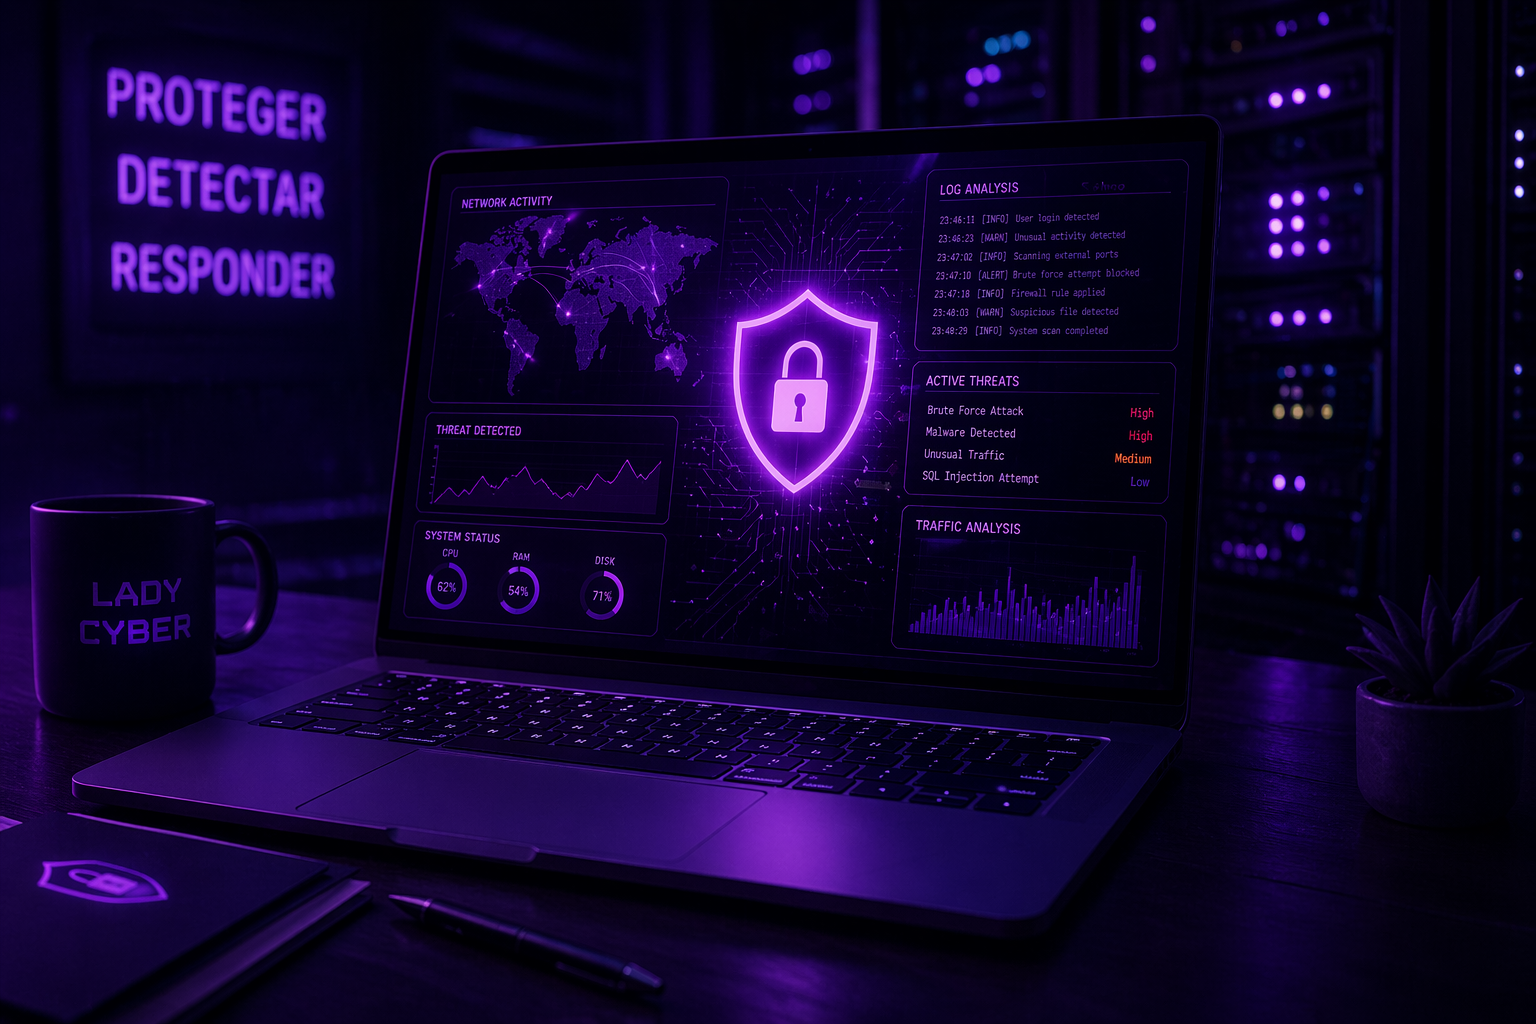
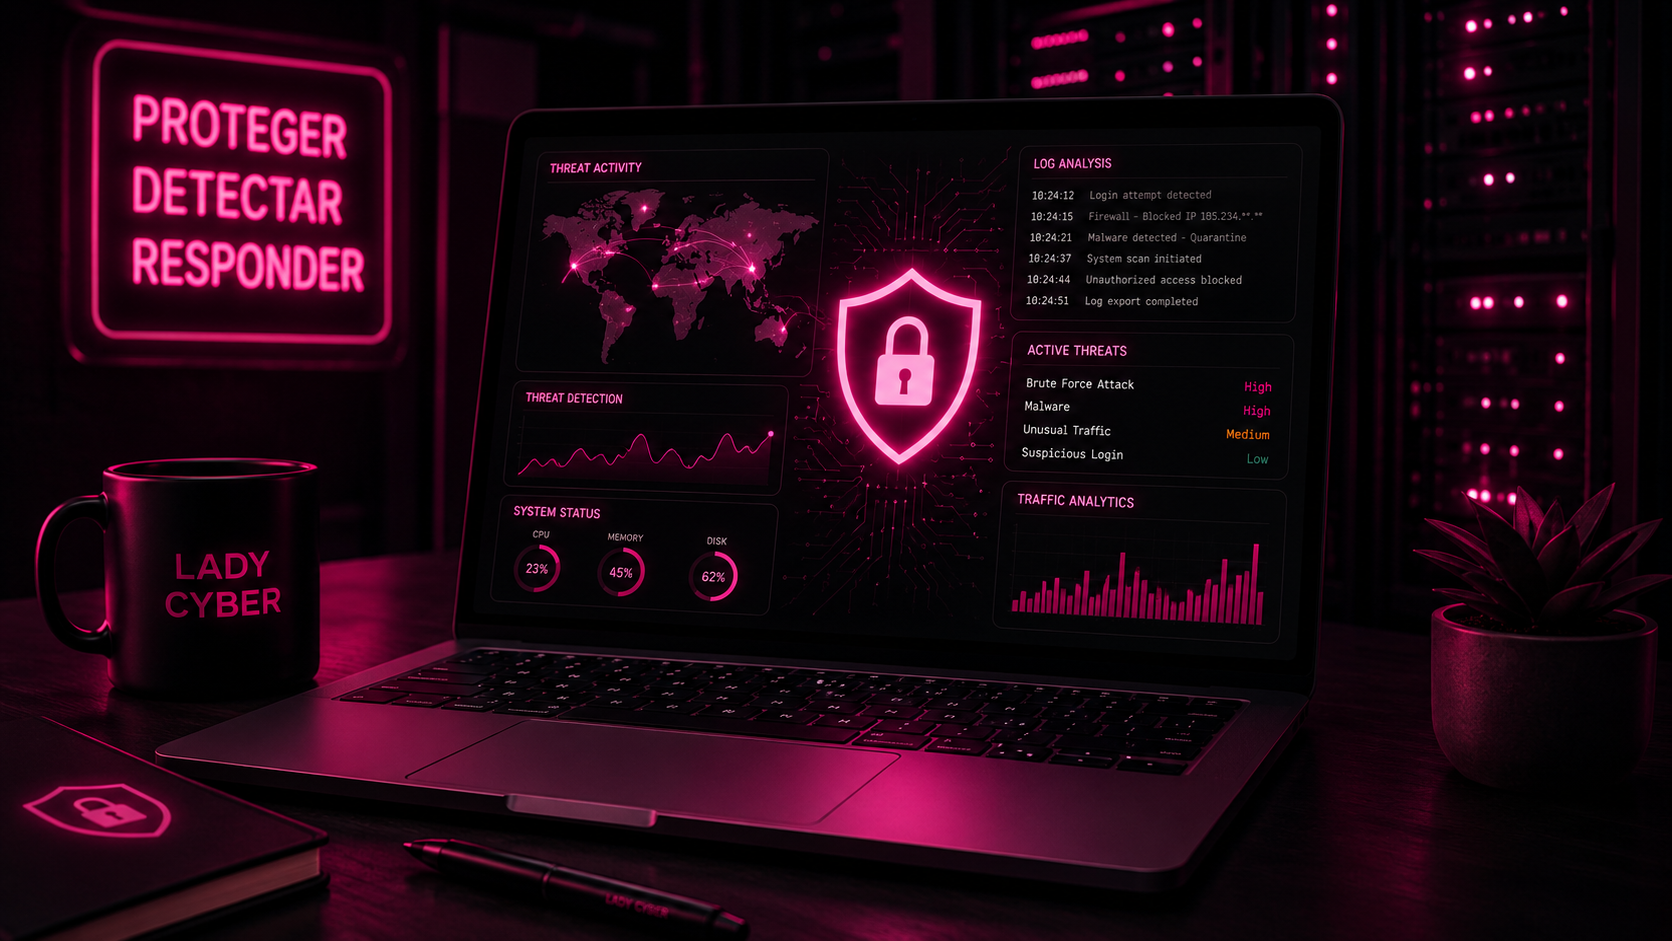
Nova imagem cyber magenta

diff --git a/index.html b/index.html
@@ -39,8 +39,7 @@
       </div>
 
       <div class="hero-image">
-        <img src="projeto.png" alt="Imagem de notebook com tema de cibersegurança em tons roxos">
-      </div>
+        <img src="projeto.png" alt="Lady Cyber">
     </section>
 
     <section class="grid-two">